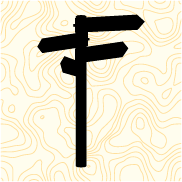
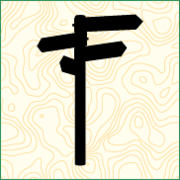
pwa stuff added

Changed region(s): [[0.0, 0.0, 1.0, 1.0]]

diff --git a/src/index.html b/src/index.html
@@ -14,7 +14,8 @@
   <title>Get Lost</title>
   <meta name="title" content="Get Lost">
   <meta name="description" content="Ontdek verborgen parels in je buurt.">
-  <meta name="theme-color" content="#1976d2">
+  <meta name="theme-color" content="#228c57">
+  <meta name="msapplication-TileColor" content="#228c57">
   <meta property="og:type" content="website">
   <meta property="og:url" content="https://getlost-frontend.netlify.app/">
   <meta property="og:title" content="Get Lost">
@@ -24,17 +25,27 @@
   <meta property="twitter:card" content="summary_large_image">
   <meta property="twitter:url" content="https://getlost-frontend.netlify.app/">
   <meta property="twitter:title" content="Get Lost">
-  <meta property="twitter:description" content="Ontdek verborgen parels in je buurt.
-">
+  <meta property="twitter:description" content="Ontdek verborgen parels in je buurt.">
   <meta property="twitter:image" content="https://getlostbucket.s3.eu-central-1.amazonaws.com/getlost.jpg">
   <base href="/">
-  <meta name="viewport" content="width=device-width, initial-scale=1">
+  <meta name="viewport" content="initial-scale=1.0, maximum-scale=1.0, minimum-scale=1.0, user-scalable=no, viewport-fit=cover">
   <link
     href="https://fonts.googleapis.com/css2?family=Barlow:ital,wght@0,300;0,400;0,500;1,800&family=Roboto&display=swap"
     rel="stylesheet">
+  <link rel="mask-icon" href="/safari-pinned-tab.svg" color="#228c57">
+  <link rel="apple-touch-icon" sizes="180x180" href="/apple-touch-icon.png">
   <link rel="icon" type="image/x-icon" href="favicon.ico">
   <link rel="manifest" href="manifest.webmanifest">
-  <link rel="apple-touch-icon" href="/apple-touch-icon.png" />
+
+  <meta name="apple-mobile-web-app-capable" content="yes">
+  <meta name="apple-mobile-web-app-title" content="Get Lost">
+
+  <meta name="apple-mobile-web-app-status-bar-style" content="black">
+
+  <link rel="apple-touch-icon" sizes="152x152" href="apple-touch-icon-ipad.png" type="image/png">
+  <link rel="apple-touch-icon" sizes="167x167" href="apple-touch-icon-ipad-retina.png" type="image/png">
+  <link rel="apple-touch-icon" sizes="180x180" href="apple-touch-icon-iphone-retina.png" type="image/png">
+
   <script type="application/ld+json">
     {
       "@context" : "http://schema.org",

diff --git a/src/scss/_base.scss b/src/scss/_base.scss
@@ -103,6 +103,13 @@ showdown {
 
         .logo {
             width: 65%;
+            animation-name: open-vertical;
+            animation-duration: 0.3s;
+            animation-timing-function: ease-in-out;
+            animation-delay: 0;
+            animation-iteration-count: 1;
+            animation-direction: normal;
+            animation-fill-mode: none;
             @include media-breakpoint-up(sm) {
                 width: 40%;
             }
@@ -122,4 +129,15 @@ showdown {
     position: absolute;
 }
 
-
+@keyframes open-vertical {
+    0%{
+        -webkit-transform: scaleY(.5);
+        transform: scaleY(.5);
+        opacity: 0;
+      }
+      100%{
+        -webkit-transform: scaleY(1);
+        transform: scaleY(1);
+        opacity: 1;
+      }
+  }
